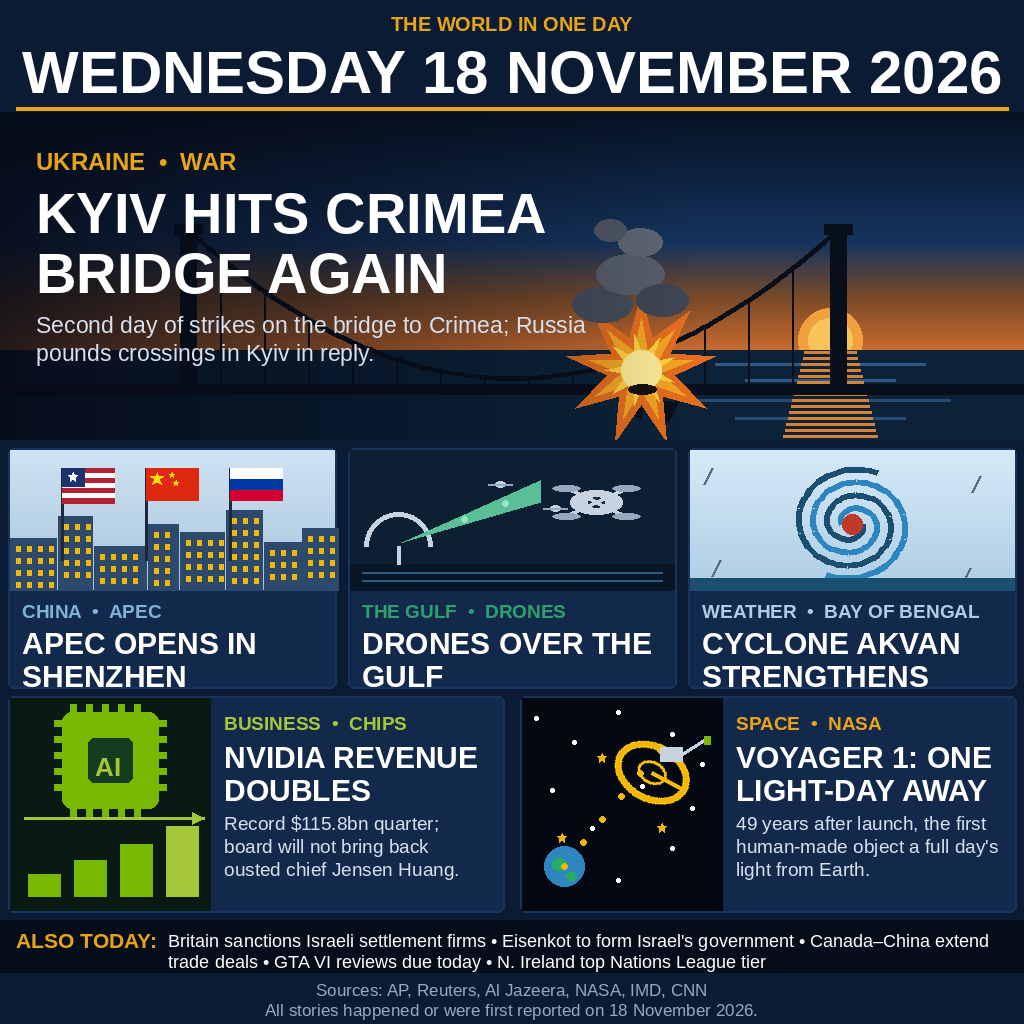
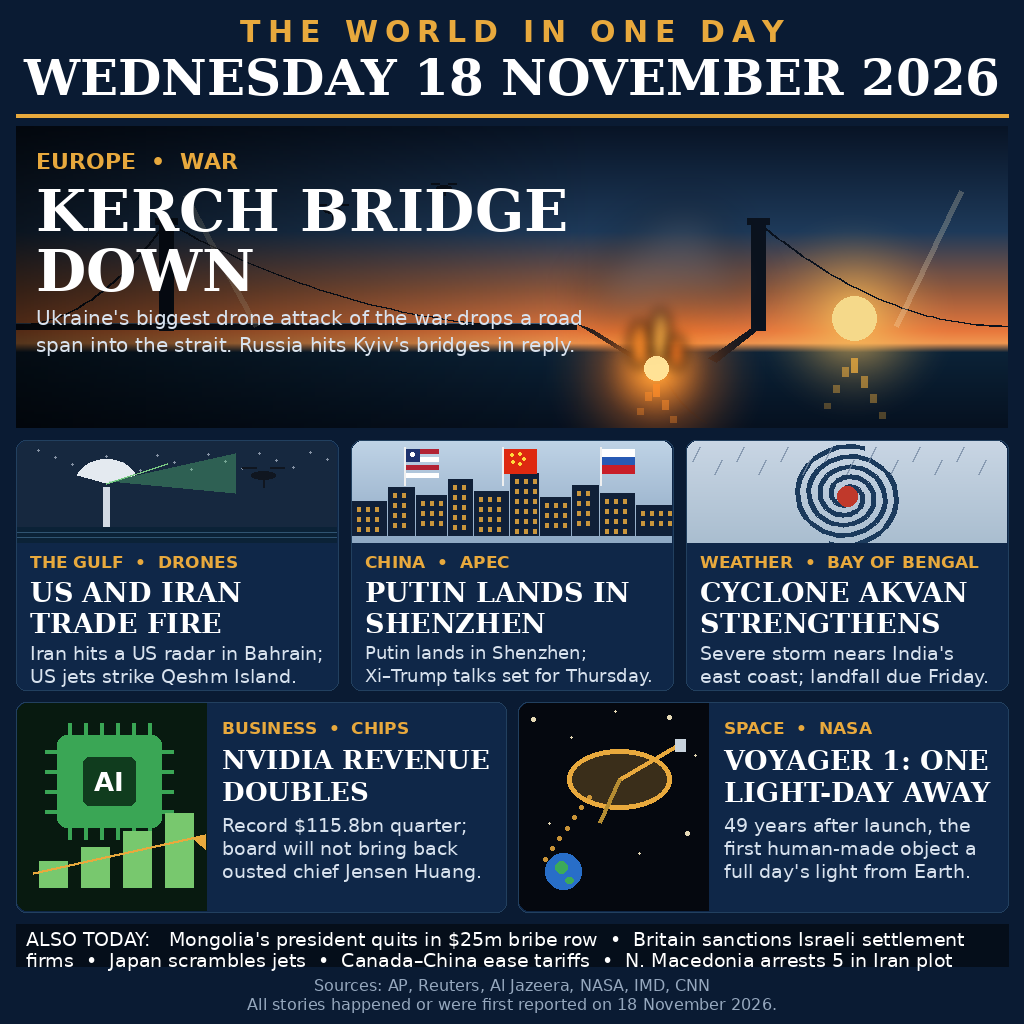
Third entry: night poster v2 for 18 November 2026 world news

diff --git a/main.ts b/main.ts
@@ -1,22 +1,18 @@
-// Entry program for news-image-20261118.
-// The image is drawn at build time and shipped in this repository as
-// entry.png; this program only copies it to the output directory the
-// grader gives us, so both graded runs write exactly the same bytes.
-import { copyFileSync, mkdirSync, statSync } from "node:fs";
-import { dirname, join } from "node:path";
-import { fileURLToPath } from "node:url";
+// Entry program for the 18 November 2026 world-news image.
+//
+// The poster is rendered at build time and shipped in this repository as
+// entry.png. All this program does is place that file in the output
+// directory the grader gives it, so both graded runs write the same bytes.
+import { mkdirSync, readFileSync, statSync, writeFileSync } from "node:fs";
 
-const IMAGE = "entry.png";
-const repoRoot = dirname(fileURLToPath(import.meta.url));
 const outDir = process.env.MAKEFUN_OUTPUT_DIR;
 if (!outDir) {
   throw new Error("MAKEFUN_OUTPUT_DIR is not set");
 }
-const src = join(repoRoot, IMAGE);
-const dst = join(outDir, IMAGE);
+const image = readFileSync(new URL("./entry.png", import.meta.url));
 mkdirSync(outDir, { recursive: true });
-copyFileSync(src, dst);
-// Fail loudly instead of shipping a truncated copy.
-if (statSync(src).size !== statSync(dst).size) {
-  throw new Error(`${IMAGE} copy is incomplete`);
+writeFileSync(`${outDir}/entry.png`, image);
+// Refuse to hand the grader a short copy.
+if (statSync(`${outDir}/entry.png`).size !== image.length) {
+  throw new Error("entry.png copy is incomplete");
 }

diff --git a/README.md b/README.md
@@ -1,14 +1,14 @@
-# Wednesday 18 November 2026 — the world in one image
+# The world in one image — Wednesday 18 November 2026
 
 [![make.fun · news-image-20261118](https://make.fun/badge/news-image-20261118.svg)](https://make.fun/bounty/news-image-20261118?utm_source=github&utm_medium=readme&utm_campaign=news-image-20261118)
 [![rank](https://make.fun/badge/news-image-20261118/ChristaNavisa/news-image-20261118/rank.svg)](https://make.fun/bounty/news-image-20261118/leaderboard?utm_source=github&utm_medium=readme&utm_campaign=news-image-20261118)
 [![reward](https://make.fun/badge/news-image-20261118/ChristaNavisa/news-image-20261118/reward.svg)](https://make.fun/bounty/news-image-20261118?utm_source=github&utm_medium=readme&utm_campaign=news-image-20261118)
 
-A dark poster that sums up Wednesday 18 November 2026: Kyiv hits the
-Crimea bridge for a second day, APEC opens in Shenzhen, drones over the
-Gulf, Cyclone Akvan strengthens, Nvidia's record quarter, and Voyager 1
-reaching one light-day from Earth — plus the day's other headlines in
-the ticker. Every story happened or was first reported on 18 November
-2026.
+A night poster summing up Wednesday 18 November 2026: the Kerch bridge
+brought down, the US and Iran trading fire in the Gulf, Putin landing in
+Shenzhen for APEC, Cyclone Akvan bearing down on India, Nvidia's record
+quarter, and Voyager 1 reaching one light-day from Earth — with the rest
+of the day's headlines in the ticker below. Every story happened or was
+first reported on 18 November 2026.
 
-`main.ts` copies the shipped `entry.png` to the output directory.
+`main.ts` copies the shipped `entry.png` into the output directory.
